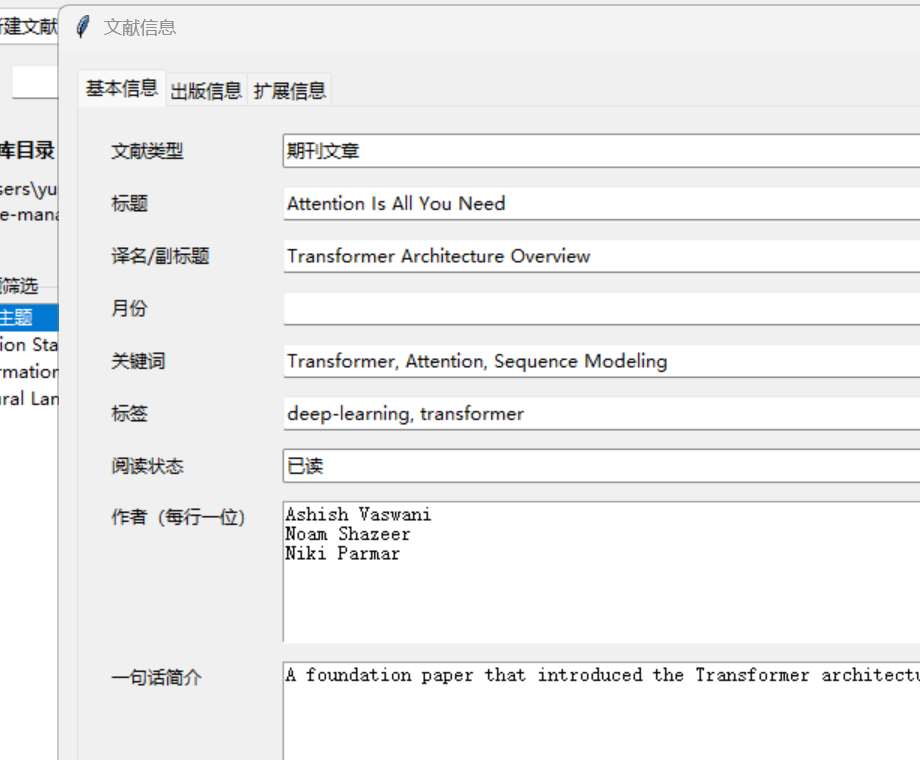
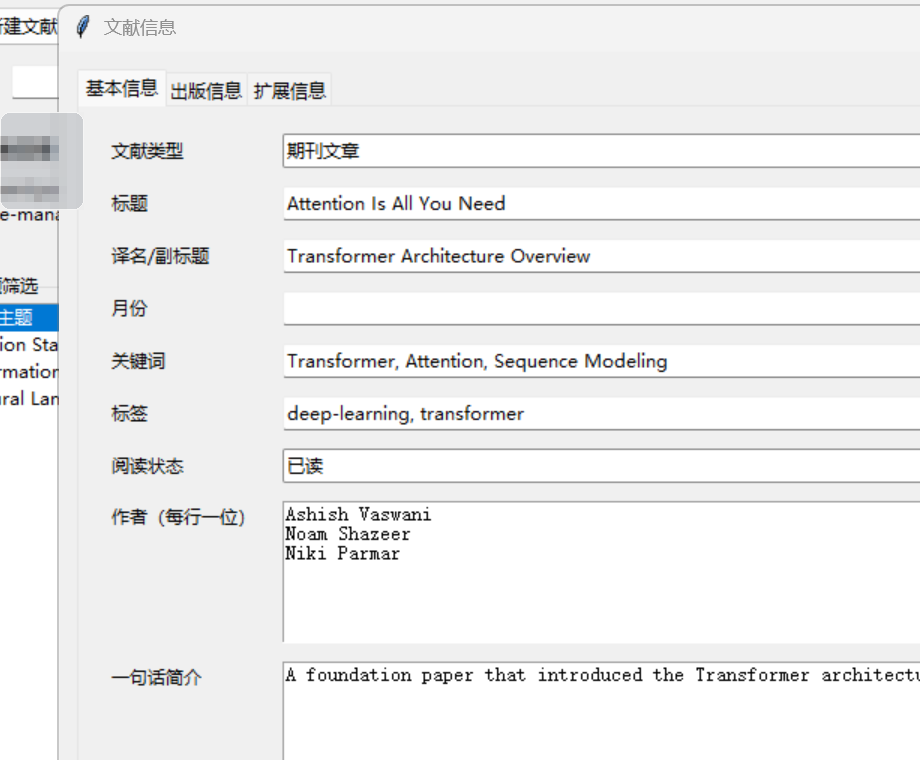
Redact screenshots and add social preview cover

Changed region(s): [[0.0, 0.1513, 0.0913, 0.2724]]

diff --git a/README.md b/README.md
@@ -10,6 +10,10 @@
 仓库地址：[GitHub](https://github.com/Dongyurocket/literature-management-tool)  
 最新发布页：[Releases](https://github.com/Dongyurocket/literature-management-tool/releases/latest)
 
+![Project cover](docs/social-preview.png)
+
+说明：README 与 Release 中使用的界面截图已对本地路径等隐私地址做打码处理。
+
 ## 为什么做这个工具
 
 很多轻量文献工具只能保存标题和 PDF，难以覆盖国内常用的 GB/T 7714-2015 参考文献整理需求，也不方便把原文、翻译稿、阅读笔记、导出文件统一管理。本项目重点解决以下问题：
